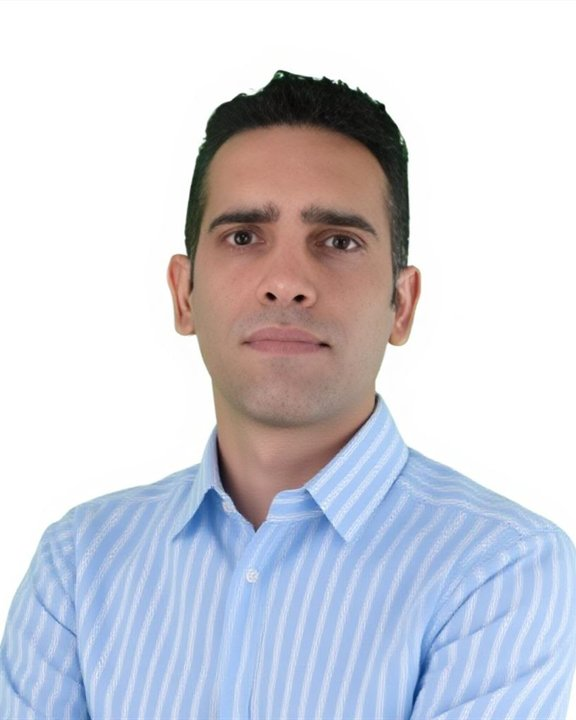
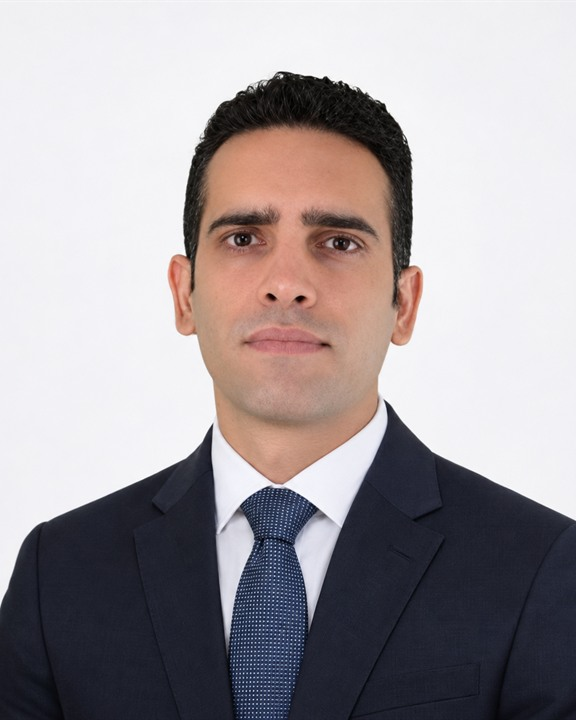
Add Mohammad Behbahani, refresh Yousef portrait, and footer headquarters
* Add Mohammad Behbahani and refresh Yousef Panahi portrait

* Add Mohammad Behbahani portrait

* Add headquarters footer and session log

diff --git a/public/styles.css b/public/styles.css
@@ -18,6 +18,7 @@ button,a{font:inherit}a{color:inherit;text-decoration:none}button{cursor:pointer
 .about-grid{display:grid;grid-template-columns:.88fr 1fr;gap:100px;align-items:center}.about-visual{background:#170f27;padding:35px;border-radius:24px;min-height:453px;display:grid;place-items:center;overflow:hidden;position:relative}.about-visual::before{content:"";position:absolute;inset:-60px;background:radial-gradient(circle at 50% 42%,#7849e144,transparent 49%),repeating-radial-gradient(circle at 50% 50%,transparent 0,transparent 48px,#ffffff10 49px,#ffffff10 50px,transparent 51px)}.about-visual-inner{display:flex;align-items:center;justify-content:center;flex-direction:column;position:relative;z-index:2}.about-visual img{width:265px;height:265px;object-fit:contain;filter:drop-shadow(0 15px 20px #0c041d99)}.about-label{font-size:10px;letter-spacing:2px;font-weight:720;color:#b8a9d8;margin-top:15px}.about h2{margin:22px 0 24px}.about-copy p{max-width:530px;font-size:15px;color:#696273;line-height:1.9;margin-bottom:15px}.about-facts{display:grid;grid-template-columns:1fr 1fr;gap:16px;margin-top:30px}.about-fact{background:#faf9fc;border:1px solid #ece5f6;border-radius:18px;padding:18px 20px}.about-fact b{display:block;font-size:32px;line-height:1;letter-spacing:-1.4px;color:#581acc;font-weight:780;font-variant-numeric:tabular-nums}.about-fact span{display:block;margin-top:9px;font-size:12.5px;line-height:1.6;color:#696273}.about-expertise{margin-top:28px}.about-copy .about-experts-label{margin:0 0 12px;font-size:10px;letter-spacing:1.7px;text-transform:uppercase;font-weight:750;color:#8d84a0;line-height:1.4}.about-chips{display:flex;flex-wrap:wrap;gap:8px}.about-chips span{font-size:12px;font-weight:650;color:#4c4062;background:#fff;border:1px solid #e6ddf2;border-radius:40px;padding:7px 12px}
 .contact{padding:105px 0;background:#28163e;color:#fff;position:relative;overflow:hidden}.contact::before{content:"";position:absolute;inset:0;background:radial-gradient(circle at 75% 30%,#8856cc33,transparent 37%);pointer-events:none}.contact-inner{position:relative;display:grid;grid-template-columns:1fr .62fr;align-items:center;gap:70px}.contact-eyebrow{color:#b79afb}.contact h2{font-size:clamp(44px,4.3vw,65px);letter-spacing:-3px;line-height:1.13;margin:23px 0}.contact h2 em{color:#b993ff;font-style:normal}.contact p{font-size:16px;color:#d3c2e6;max-width:550px;line-height:1.8}.button-contact{background:#9c66ff;color:#fff;margin-top:15px}.button-contact:hover{background:#ac83ff}.contact-card{border:1px solid #ffffff2e;background:#ffffff0b;border-radius:18px;padding:30px;min-height:265px;display:flex;flex-direction:column}.contact-card-label{font-size:10px;letter-spacing:1.6px;color:#be9eed;font-weight:700}.contact-glyph{font-size:80px;line-height:1;color:#ad84ff;margin:12px 0 20px}.contact-card-caption{font-size:13px;color:#d6c9e2;margin-bottom:10px}.contact-card a{font-weight:740;font-size:18px;word-break:break-word}.contact-card a:hover{text-decoration:underline;text-underline-offset:4px}
 .site-footer{background:#12111d;color:#f3effa;padding-top:67px}.footer-main{display:grid;grid-template-columns:1fr 1fr;gap:50px;padding-bottom:58px}.footer-brandline{display:flex;align-items:center;gap:8px}.footer-brandline img{width:44px;height:44px;object-fit:contain}.footer-brandline strong{font-size:27px;letter-spacing:-1.5px}.footer-brandline strong span{color:#a277ff}.footer-brand p{font-size:13px;line-height:1.9;color:#a79ab8;margin-top:16px}.footer-links{display:flex;justify-content:space-around;gap:30px}.footer-links>div{display:flex;flex-direction:column;gap:15px}.footer-links b{font-size:10px;letter-spacing:1.8px;color:#8b7c9f;margin-bottom:9px}.footer-links a{font-size:13px;color:#d4c9e3}.footer-links a:hover{color:#ad81ff}.footer-bottom{border-top:1px solid #ffffff17;display:flex;justify-content:space-between;gap:20px;padding:22px 0 26px;color:#8e839b;font-size:11px}.footer-bottom a:hover{color:#fff}
+.footer-hq{margin-top:4px}.footer-hq b{margin-bottom:0}.footer-location{display:inline-flex;align-items:center;gap:7px;font-size:13px;color:#d4c9e3}.footer-location svg{width:15px;height:15px;flex:0 0 auto;fill:none;stroke:#ad81ff;stroke-width:1.7;stroke-linecap:round;stroke-linejoin:round}
 @media(max-width:1000px){.site-nav{gap:20px}.hero-grid{grid-template-columns:1fr 1fr}.hero h1{font-size:clamp(46px,5.5vw,65px)}.chip-one{left:-23px}.chip-two{right:-15px}.heading-split{gap:45px}.capabilities-main{gap:35px}.about-grid{gap:45px}.principle-layout{grid-template-columns:60px 1fr}.principle-small{display:none}}
 @media(max-width:790px){.container{width:min(100% - 40px,660px)}.header-inner{height:72px}.menu-toggle{display:flex}.menu-toggle[aria-expanded="true"] span:nth-child(1){transform:translateY(8px) rotate(45deg)}.menu-toggle[aria-expanded="true"] span:nth-child(2){opacity:0}.menu-toggle[aria-expanded="true"] span:nth-child(3){transform:translateY(-8px) rotate(-45deg)}.site-nav{display:none;position:absolute;left:0;right:0;top:71px;padding:23px 20px 30px;background:#fff;border-bottom:1px solid #e7dff1;box-shadow:0 18px 27px #1e13321a;flex-direction:column;gap:23px;align-items:stretch}.site-nav.is-open{display:flex}.site-nav>a{font-size:15px}.site-nav .nav-cta{justify-content:center}.hero-grid{grid-template-columns:1fr;padding-top:72px;gap:0}.hero h1{font-size:clamp(49px,9vw,72px);letter-spacing:-3.2px}.hero-visual{min-height:460px}.hero-bottom{flex-wrap:wrap;gap:15px;text-align:center;font-size:9px}.section{padding:80px 0}.heading-split{grid-template-columns:1fr;gap:24px}.heading-split>p{max-width:560px}.services-grid{grid-template-columns:1fr}.service-card{min-height:310px}.service-card h3{margin-top:25px}.principle{padding:60px 0}.principle-layout{grid-template-columns:1fr;gap:17px}.asterisk{font-size:49px}.timeline{grid-template-columns:repeat(2,1fr);gap:25px}.capabilities-main{grid-template-columns:1fr;gap:43px}.tech-strip{display:block;margin-top:58px}.tech-strip div{margin-top:20px}.about-grid{grid-template-columns:1fr;gap:42px}.about-visual{min-height:365px}.contact-inner{grid-template-columns:1fr;gap:30px}.contact{padding:80px 0}.contact-card{min-height:auto}.footer-main{grid-template-columns:1fr;gap:28px}.footer-links{justify-content:flex-start;gap:80px}}
 @media(max-width:480px){.container{width:calc(100% - 34px)}.brand-word{font-size:23px}.hero-grid{padding-top:60px;padding-bottom:25px}.hero h1{font-size:49px;letter-spacing:-2.7px;margin:20px 0}.hero-lede{font-size:15px;line-height:1.8}.hero-actions{gap:9px;margin-top:25px}.button{font-size:12px;gap:10px;padding:15px 16px}.hero-note{margin-top:35px;font-size:8px;line-height:1.7}.hero-visual{min-height:345px;margin-top:15px}.interface-window{width:94%;height:270px}.interface-top{height:40px;padding:0 12px}.interface-caption{font-size:9px}.interface-body{height:230px}.side-rail{width:44px;padding-top:17px;gap:13px}.interface-main{padding:16px}.flow-map{height:99px}.flow-node{height:65px;min-width:52px;font-size:7px;gap:5px}.node-two{height:72px}.flow-node .node-icon{font-size:19px}.interface-stats{gap:6px;margin-top:8px}.interface-stats>div{height:60px;padding:7px}.fake-bars{gap:5px;margin-top:5px}.fake-bars i{width:10px}.wave-line svg{height:27px}.floating-chip{font-size:8px;padding:9px 10px}.chip-one{left:-8px;top:35px}.chip-two{right:-8px;bottom:10px}.hero-bottom{padding:15px 0 18px}.hero-bottom span{font-size:8px}.section-heading h2,.capabilities h2,.about h2,.contact h2{font-size:40px;letter-spacing:-2px}.section{padding:70px 0}.service-card{padding:23px}.exp-body{padding:22px 20px 24px}.exp-visual{padding:14px 14px 0}.experience-card h3{font-size:20px}.experience-cta h3{font-size:18px}.principle p{font-size:28px}.timeline{grid-template-columns:1fr;gap:14px}.timeline-step{padding-top:18px}.timeline h3{margin-top:11px}.timeline p{max-width:none}.concept-body{padding:17px}.concept-top{padding:0 12px;font-size:7px}.concept-cards>div{padding:10px;height:125px}.bar-chart{gap:7px;height:70px}.bar-chart b{width:16px}.ring{width:66px;height:66px;border-width:10px}.concept-footnote{font-size:9px;padding:0 16px 16px}.tech-strip div{gap:15px}.about-visual{min-height:300px}.about-visual img{width:220px;height:220px}.contact-card a{font-size:16px}.footer-bottom{flex-wrap:wrap}.footer-links{gap:55px}.about-facts{grid-template-columns:1fr}}
@@ -45,7 +46,7 @@ button,a{font:inherit}a{color:inherit;text-decoration:none}button{cursor:pointer
 
 /* ---- Meet the team ---- */
 .team{background:#faf9fc;border-block:1px solid #f1edf7}
-.team-grid{display:grid;grid-template-columns:repeat(3,1fr);gap:24px;align-items:stretch}
+.team-grid{display:grid;grid-template-columns:repeat(4,1fr);gap:20px;align-items:stretch}
 .team-card{display:flex;flex-direction:column;background:#fff;border:1px solid #ece6f4;border-radius:22px;overflow:hidden;transition:transform .28s ease,border-color .28s ease,box-shadow .28s ease}
 .team-card:hover{transform:translateY(-6px);border-color:#d9c9f9;box-shadow:0 30px 55px rgba(57,28,107,.11)}
 .team-portrait{margin:0;position:relative;aspect-ratio:4/5;display:grid;place-items:center;overflow:hidden;background:linear-gradient(160deg,#f7f1ff 0%,#eee3fd 55%,#e6d7fb 100%);isolation:isolate}
@@ -56,7 +57,8 @@ button,a{font:inherit}a{color:inherit;text-decoration:none}button{cursor:pointer
 .team-initials{position:relative;z-index:1;font-size:clamp(42px,5vw,58px);font-weight:800;letter-spacing:.04em;color:#8049e4;text-shadow:0 24px 50px rgba(88,26,204,.18)}
 .team-initials::after{content:"";display:block;width:38px;height:3px;border-radius:3px;background:#d9c6fb;margin:14px auto 0}
 .team-body{display:flex;flex-direction:column;flex:1;padding:24px 24px 26px}
-.team-heading{display:flex;align-items:flex-start;justify-content:space-between;gap:14px}
+.team-heading{display:flex;align-items:flex-start;justify-content:space-between;gap:12px}
+.team-id{min-width:0}
 .team-heading h3{font-size:20px;letter-spacing:-.5px;margin:0;line-height:1.25}
 .team-role{font-size:10.5px;font-weight:750;letter-spacing:1.5px;text-transform:uppercase;color:#8049e4;margin:6px 0 0;line-height:1.5}
 .team-linkedin{flex:0 0 auto;width:34px;height:34px;border-radius:50%;border:1px solid #e5dcf4;color:#7a5ba8;display:grid;place-items:center;transition:background .2s,color .2s,border-color .2s,transform .2s}
@@ -68,7 +70,7 @@ button,a{font:inherit}a{color:inherit;text-decoration:none}button{cursor:pointer
 .team-fallback{background:#fff;border:1px solid #ece6f4;border-radius:18px;padding:24px;font-size:14px;color:#6e6878}
 .team-fallback a{color:#8049e4;font-weight:650}
 
-@media(max-width:1000px){.team-grid{grid-template-columns:1fr;gap:20px}.team-card{flex-direction:row}.team-portrait{flex:0 0 210px;width:210px;aspect-ratio:auto;border-right:1px solid #f0eaf7}.team-body{min-width:0}}
+@media(max-width:1199px){.team-grid{grid-template-columns:1fr;gap:20px}.team-card{flex-direction:row}.team-portrait{flex:0 0 210px;width:210px;aspect-ratio:auto;border-right:1px solid #f0eaf7}.team-body{min-width:0}}
 @media(max-width:620px){.team-card{flex-direction:column}.team-portrait{flex:0 0 auto;width:100%;aspect-ratio:4/5;border-right:0}.team-body{padding:22px 22px 24px}}
 /* ---- Solutions & expertise (section 03) ---- */
 .solutions-grid{display:grid;grid-template-columns:repeat(3,1fr);gap:18px;margin-top:52px}

diff --git a/public/script.js b/public/script.js
@@ -24,8 +24,26 @@
         '0→1 Product Development'
       ],
       initials: 'YP',
-      photo: 'assets/team/yousef.jpg',
+      photo: 'assets/team/yousef.jpg?v=2',
       linkedin: 'https://www.linkedin.com/in/yousef-panahi'
+    },
+    {
+      name: 'Mohammad Behbahani',
+      title: 'AI Engineer & Data Scientist',
+      bio: 'Mohammad specializes in AI engineering, data science, and optimization, combining machine learning research with practical software development. His experience includes building RAG-powered AI systems, intelligent workflows, predictive models, and cloud-based applications, with a background in e-commerce analytics and supply chain optimization.',
+      expertise: [
+        'AI Engineering',
+        'Machine Learning',
+        'RAG & Agentic AI',
+        'Data Science',
+        'Predictive Analytics',
+        'Optimization',
+        'Python & FastAPI',
+        'Cloud & MLOps'
+      ],
+      initials: 'MB',
+      photo: 'assets/team/mohammad-behbahani.jpg',
+      linkedin: 'https://www.linkedin.com/in/mohammad-behbahani-85958775/'
     },
     {
       name: 'Saeed Najafi',
@@ -123,7 +141,11 @@
     title.className = 'team-role';
     title.textContent = member.title;
 
-    heading.append(name, title);
+    const identity = document.createElement('div');
+    identity.className = 'team-id';
+    identity.append(name, title);
+
+    heading.appendChild(identity);
 
     if (member.linkedin) {
       const link = document.createElement('a');

diff --git a/public/index.html b/public/index.html
@@ -650,7 +650,7 @@
         <div class="team-grid" id="team-grid" role="list"></div>
         <noscript>
           <div class="team-fallback">
-            <p>ORVANU is a team of 15 professionals. Featured: <strong>Yousef Panahi</strong>, Director of Product · <strong>Saeed Najafi</strong>, Full-Stack Engineer · <strong>Mohammadreza Akbari</strong>, Full-Stack Engineer.</p>
+            <p>ORVANU is a team of 15 professionals. Featured: <strong>Yousef Panahi</strong>, Director of Product · <strong>Mohammad Behbahani</strong>, AI Engineer &amp; Data Scientist · <strong>Saeed Najafi</strong>, Full-Stack Engineer · <strong>Mohammadreza Akbari</strong>, Full-Stack Engineer.</p>
             <p><a href="mailto:orvanutech@gmail.com">Contact us to learn more</a></p>
           </div>
         </noscript>
@@ -802,6 +802,13 @@
           <b>CONNECT</b>
           <a href="mailto:orvanutech@gmail.com">Email us</a>
           <a href="#contact">Start a project</a>
+          <div class="footer-hq">
+            <b>HEADQUARTERS</b>
+            <span class="footer-location">
+              <svg viewBox="0 0 24 24" aria-hidden="true"><path d="M12 21s7-5.7 7-11a7 7 0 1 0-14 0c0 5.3 7 11 7 11z" /><circle cx="12" cy="10" r="2.6" /></svg>
+              Utrecht, Netherlands
+            </span>
+          </div>
         </div>
       </div>
     </div>

diff --git a/docs/PROJECT-LOG.md b/docs/PROJECT-LOG.md
@@ -183,6 +183,24 @@ until manually deleted. `purge` exists for scheduled/ manual cleanup.
 - Deployed: PR #8 → `01ddcfa` → workflow run #10 **SUCCESS**; live HTML contains
   `about-facts`, `about-chips`, no `about-values`.
 
+### Session D — 24 Nov 2026: AI service, experience, footer HQ, team
+
+- Added the AI solutions service card and replaced §04 with four anonymised
+  SELECTED EXPERIENCE cards (team work elsewhere, no client names or endorsement).
+  Deployed via PR #12, workflow run #14 **SUCCESS**; old concept cards removed.
+- Footer CONNECT column now carries HEADQUARTERS / Utrecht, Netherlands with a
+  15 px pin. No street address, no map; existing email/social links untouched.
+- Team: Mohammad Behbahani added second (AI Engineer & Data Scientist, exact
+  LinkedIn URL), distinct from Mohammadreza Akbari. Four-column desktop grid,
+  horizontal rows below 1200 px, stacked cards below 620 px. New 4:5 portraits
+  for Yousef and Mohammad; the stated team count deliberately stays at 15.
+- Image generation was unavailable (invalid credential), so experience visuals
+  are hand-built SVG; markup keeps slots for real 16:10 artwork later.
+- Deployment lesson: a Wrangler-managed Pages project wipes dashboard-set plain
+  vars on each deploy. `[vars]` and the D1 binding must stay in `wrangler.toml`.
+- Verified: `node --check`, four photos at 576×720, no horizontal overflow at
+  1440/1024/390 px, no site-code console errors.
+
 ---
 
 ## 7. Bugs found and fixed (so they are not re-introduced)
